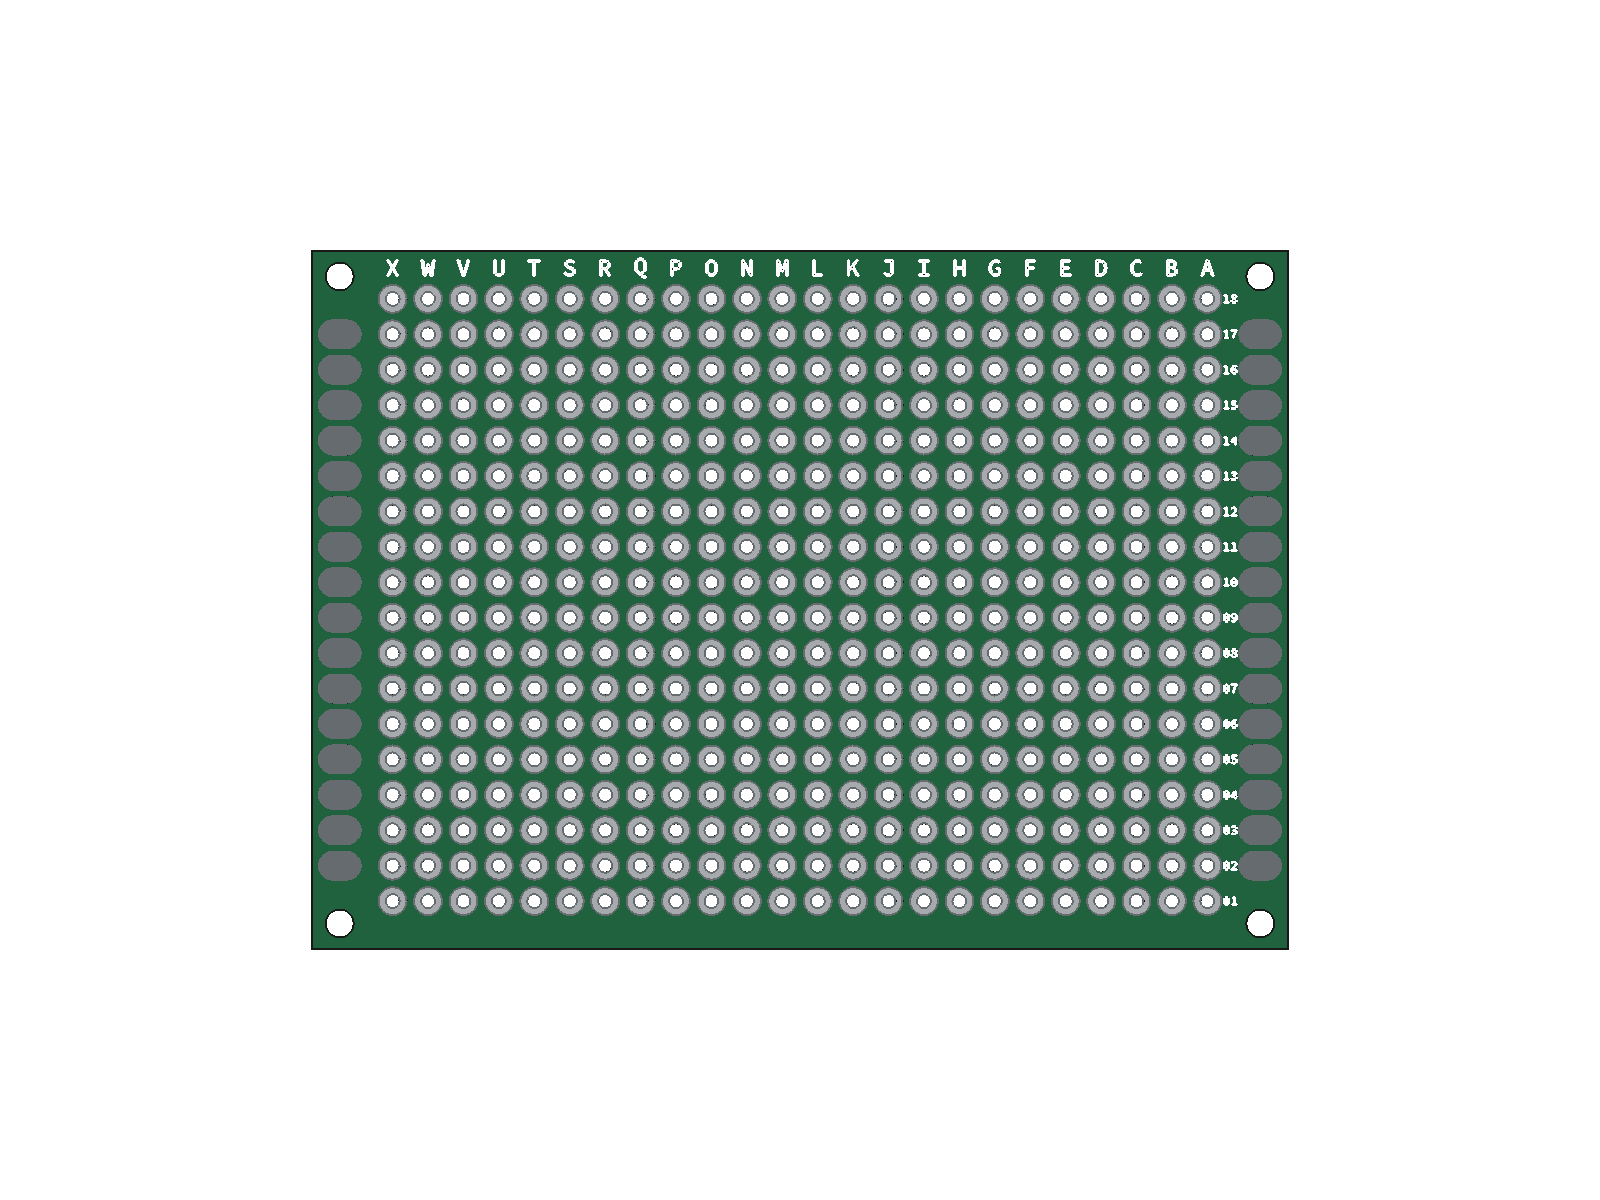
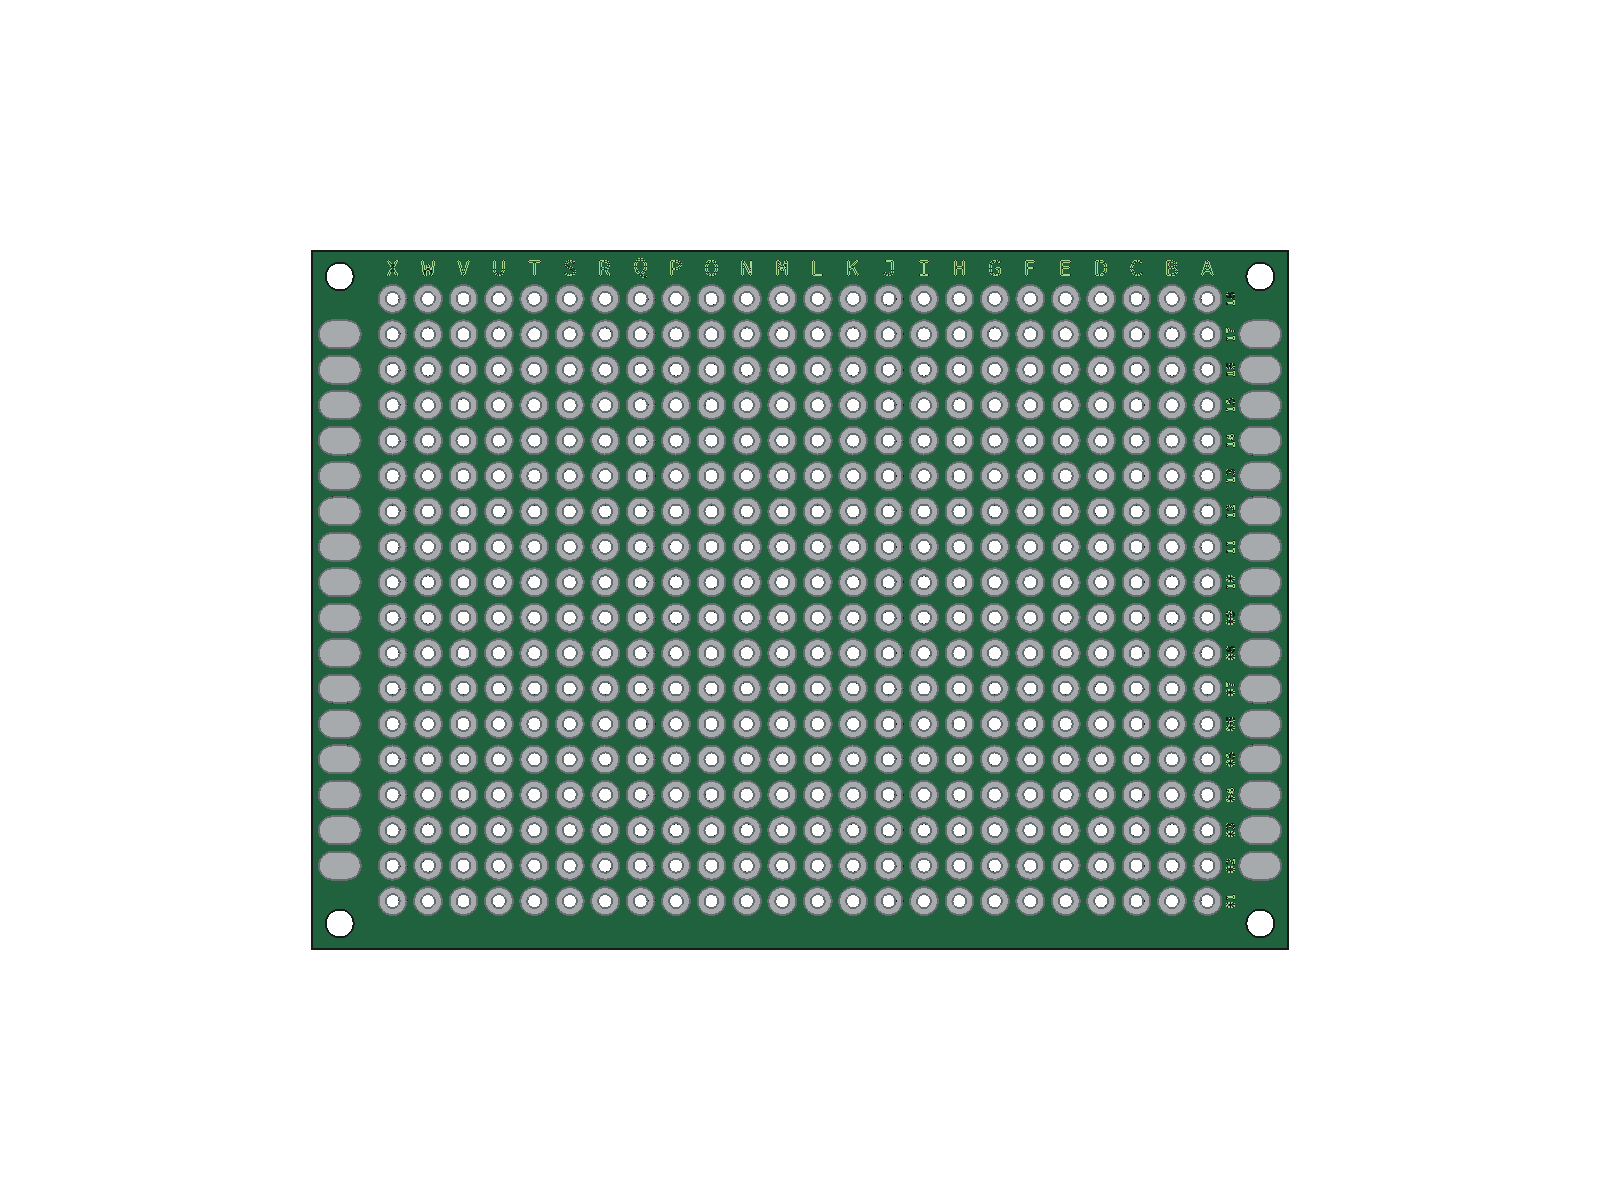
fix: refine surface lettering and match conductive pad finishes

diff --git a/tools/add_carrier_surface_labels.py b/tools/add_carrier_surface_labels.py
@@ -30,25 +30,28 @@ def main():
             params.addProperty('App::PropertyLength', name, 'Lettering')
             setattr(params, name, value)
         params.addProperty('App::PropertyString', 'Evidence', 'Evidence')
-        params.Evidence = 'Instructor 2026-09-23: top long edge A-X right to left, no skipped letters; right short edge 01-18 bottom to top. Top-face markings only; underside orientation not confirmed. Font and text dimensions are illustrative, not measured. Text is flat geometry at a visualization-only lift above board.'
+        params.Evidence = 'Instructor 2026-09-23: top long edge A-X right to left, no skipped letters; right short edge 01-18 bottom to top, numerals rotated counterclockwise 90 degrees in top view. All labels thin light-green outlines. Top-face markings only; underside orientation not confirmed. Font and text dimensions illustrative; visualization-only lift above board.'
         doc.Circuitry.addObject(params)
         labels = doc.addObject('App::DocumentObjectGroup', 'SurfaceLabels')
-        labels.Label = 'White surface lettering — physical board coordinates'
+        labels.Label = 'Light-green outline lettering — physical board coordinates'
         doc.Circuitry.addObject(labels)
         def text(value, size_expression, x_expression, y_expression):
             obj = make_shapestring(value, FONT, Size=1)
             obj.Label = 'Surface ' + value
             obj.Justification = 'Middle-Center'
             obj.JustificationReference = 'Shape Height'
+            obj.MakeFace = False
+            obj.Placement.Rotation = App.Rotation(App.Vector(0, 0, 1), 90 if value.isdigit() else 0)
             obj.setExpression('Size', size_expression)
             obj.setExpression('Placement.Base.x', x_expression)
             obj.setExpression('Placement.Base.y', y_expression)
             obj.setExpression('Placement.Base.z', 'Carrier.Placement.Base.z + Carrier.Height + SurfaceLabelParameters.DisplayLift')
             labels.addObject(obj)
             if App.GuiUp:
-                obj.ViewObject.ShapeColor = (1.0, 1.0, 1.0)
-                obj.ViewObject.LineColor = (1.0, 1.0, 1.0)
-                obj.ViewObject.DisplayMode = 'Flat Lines'
+                obj.ViewObject.ShapeColor = (0.65, 0.85, 0.55)
+                obj.ViewObject.LineColor = (0.65, 0.85, 0.55)
+                obj.ViewObject.LineWidth = 1.0
+                obj.ViewObject.DisplayMode = 'Wireframe'
             return obj
         for index in range(24):
             physical = chr(65 + index)

diff --git a/tools/add_carrier_edge_pads.py b/tools/add_carrier_edge_pads.py
@@ -76,8 +76,15 @@ def main():
         doc.ValidationScope.CurrentStage = 'Carrier with signal holes, mounting holes, annular pads and edge capsule pads; offsets and metal height partly provisional, installed components pending.'
         if App.GuiUp:
             import FreeCADGui as Gui
-            capsule.ViewObject.ShapeColor = (0.78, 0.80, 0.82)
-            capsule.ViewObject.LineColor = (0.40, 0.42, 0.44)
+            # MultiFuse inherits per-face appearance from its source solids
+            # on recompute; styling only the result is not persistent.
+            finish = doc.PadRing.ViewObject
+            for obj in [middle] + ends + [capsule]:
+                obj.ViewObject.ShapeAppearance = finish.ShapeAppearance
+                obj.ViewObject.LineMaterial = finish.LineMaterial
+                obj.ViewObject.LineWidth = finish.LineWidth
+                obj.ViewObject.DisplayMode = finish.DisplayMode
+                obj.ViewObject.Lighting = finish.Lighting
             for obj in [middle] + ends + [capsule, templates]:
                 obj.ViewObject.hide()
             for group in pads.Group:

diff --git a/assets/cad/README.md b/assets/cad/README.md
@@ -250,15 +250,20 @@ construction. Axial height follows the same visualization-only metal thickness.
 Pad centers are provisionally 2 mm from the short edges, with their long axes
 across the board margin. Their electrical purpose has not been established.
 Native Boolean source geometry and links preserve editability without a proxy.
+The capsule source solids and fused result share the annular rings' complete
+silver appearance. Styling the fused result alone proved insufficient: FreeCAD
+restored source face colors on recompute. Source materials are now matched too;
+all 64 linked capsules were checked after forced recomputation.
 The instructor's estimated 1.5 mm gap from silver ring edge to mounting-hole edge
 is not yet reconciled: the current model measures 2.118 mm at all four corners;
 grid edge offsets remain provisional. Adding edge pads does not adjust that gap.
 
 ### Physical surface markings
 
-`tools/add_carrier_surface_labels.py` adds 42 white, planar Draft ShapeStrings to
+`tools/add_carrier_surface_labels.py` adds 42 light-green outline Draft ShapeStrings to
 the top face: **A–X from right to left along the top**, and **01–18 from bottom to
-top along the right**. No letters are skipped. Text centers track the corresponding
+top along the right**, with numbers rotated **90° counterclockwise** in top view.
+No letters are skipped. Text centers track the corresponding
 hole centers. Numeric labels sit in the gap between signal pads and edge capsules.
 The older external annotations are hidden. Underside lettering is not inferred.
 
@@ -268,3 +273,8 @@ Code Pro font and OFL license in `fonts/` allow the built-in Draft ShapeStrings 
 recompute without machine-specific font paths. Text remains editable through each
 ShapeString's `String` property. Physical hole and annular pad addresses were
 updated together; geometry and existing internal object names were preserved.
+
+The instructor reported that the board otherwise looks like the physical PCB.
+Thickness remains the listing-derived **1.6 mm**: an approximate 1.4 mm observation
+was explicitly withdrawn before any change was applied. The visual feedback does
+not resolve the recorded grid-offset and mounting-gap uncertainties.
